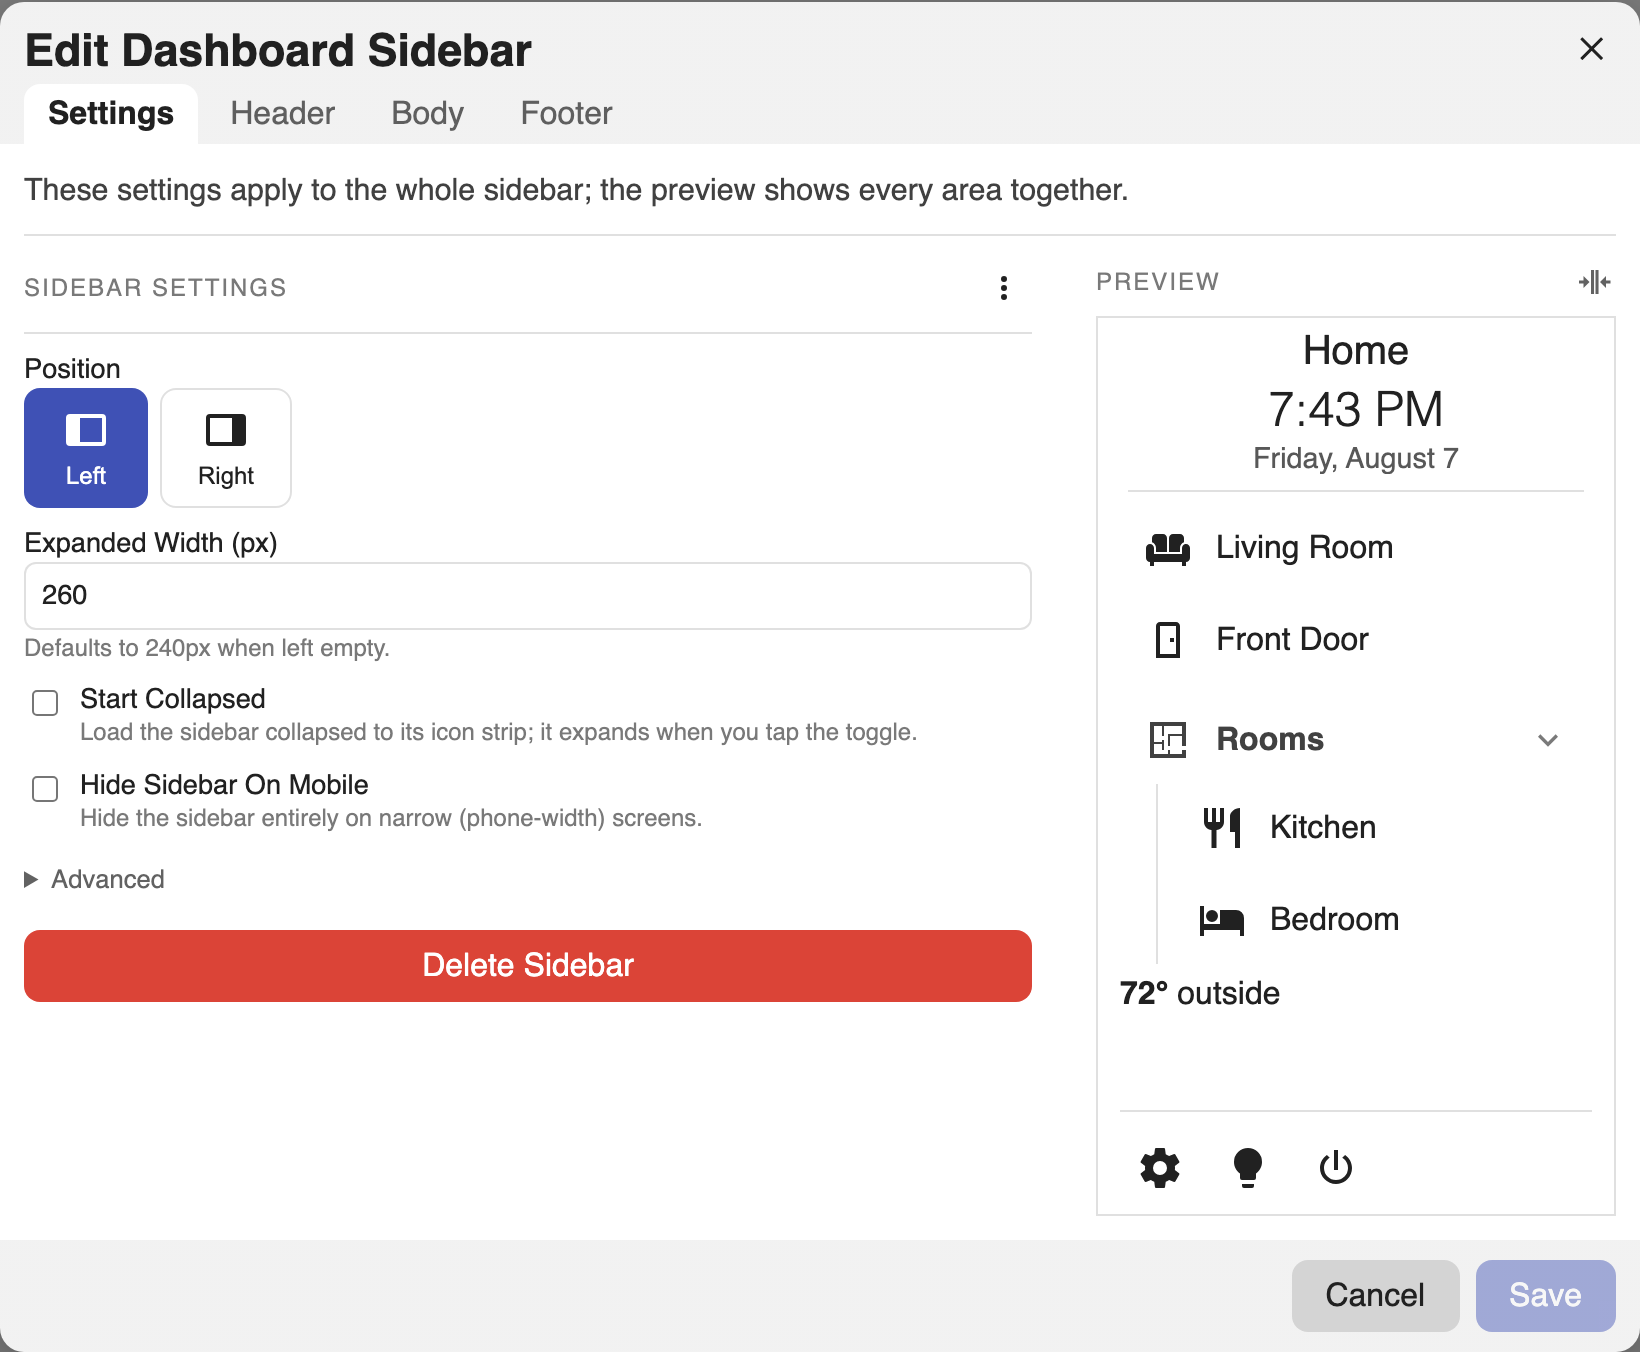
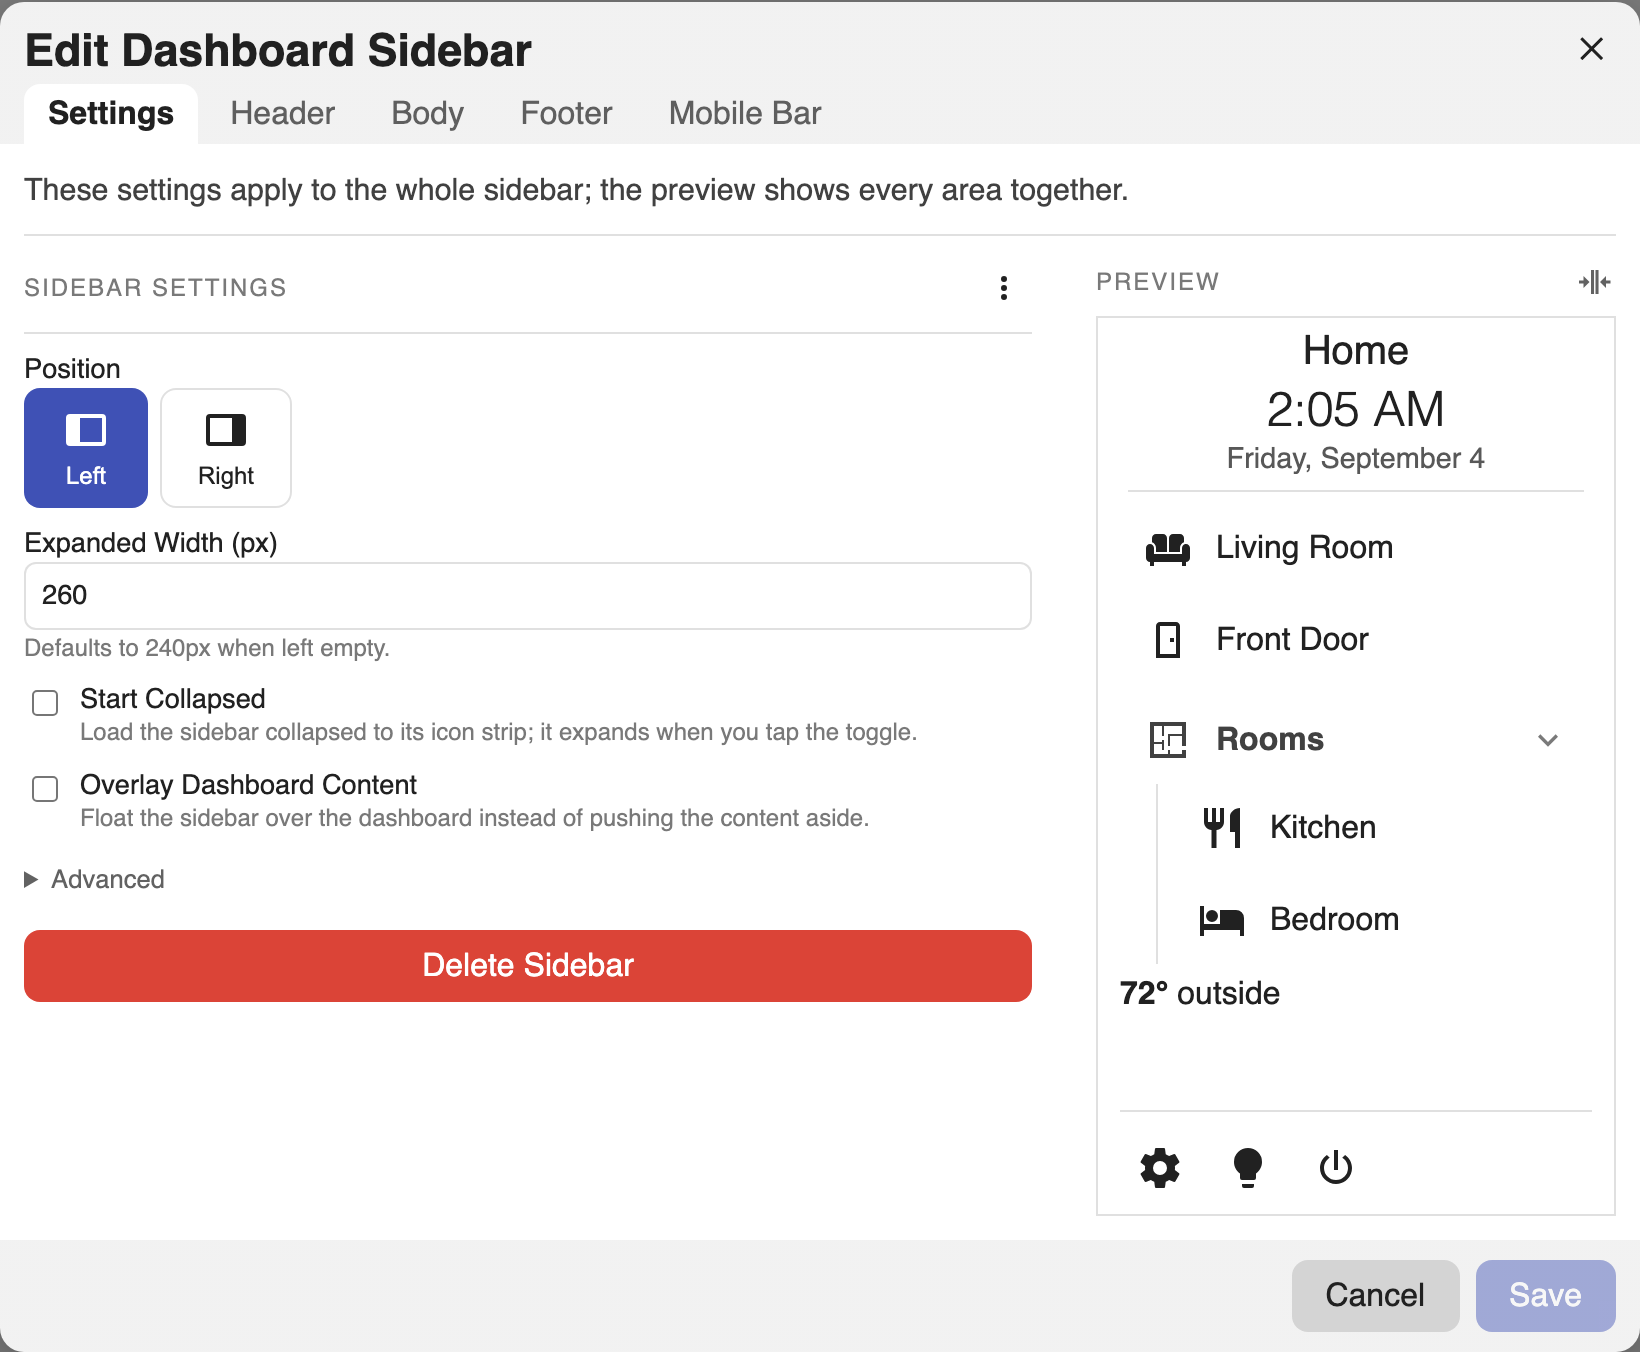
docs: document the mobile bar
The bar had no page of its own: everything a reader needed was a field list
in the generated reference, which lists keys without explaining them. There
is a Mobile Bar page now, covering the two modes, what each one reads, the
custom YAML shape, and the footer's three forms, with the switch-to-custom
copy behaviour spelled out.

Two sentences also still promised a four-tab editor. There are five.

The screenshot script grew a mobile section on its demo config, so the
Mobile Bar tab is reachable, plus shots of both modes: the mirror form over
its live bar preview, and custom mode with the YAML reference open. All the
images are regenerated off the current editor; the old set was from before
the tab existed.

Settings also listed the breakpoint and the two viewport options as
top-level fields. They live under Advanced, next to the background.

Changed region(s): [[0.0311, 0.5592, 0.5287, 0.6213], [0.7463, 0.2796, 0.9018, 0.3728], [0.4043, 0.0621, 0.4976, 0.0932]]

diff --git a/docs/mobile.md b/docs/mobile.md
@@ -1,0 +1,156 @@
+# Mobile Bar
+
+On narrow screens the sidebar can be replaced by a bar pinned to the bottom (or
+top) of the screen. Elements that don't fit fold into a **⋯** sheet that slides
+up, along with the footer and any extra entries you curate.
+
+The bar only exists when `on_mobile` is `bar`. Adding a `mobile:` section turns
+it on by default; see [Sidebar Settings](configuration.md) for `on_mobile`,
+`on_desktop`, and the `breakpoint` that decides what counts as narrow.
+
+## Two modes
+
+The bar gets its content one of two ways, chosen by `mode`:
+
+| Mode | What the bar shows |
+| --- | --- |
+| `mirror` (default) | The desktop nav, in document order, and the desktop footer. |
+| `custom` | Only what you spell out under `mobile`. It inherits nothing. |
+
+=== "Visual editor"
+
+    Open the **Mobile Bar** tab. The **⋯** menu switches between
+    **Mirror Desktop** and **Custom Bar**. Switching to custom asks whether to
+    **Copy Desktop Bar** (clone what the mirror shows, footer included) or
+    **Start Empty**.
+
+    Mirror mode shows the bar's options as a form. Custom mode is edited as
+    YAML, with a collapsed **Mobile YAML reference** above the editor listing
+    every key and linking here.
+
+    ![The Mobile Bar tab in mirror mode: position and label options on the left, a live bar preview at phone width below.](assets/editor/mobile-mirror.png)
+
+=== "YAML"
+
+    ```yaml
+    mobile:
+      mode: mirror        # mirror | custom; default mirror
+      position: bottom    # top | bottom; default bottom
+      labels: false       # show element titles under the bar icons
+    ```
+
+`items`, `menu`, and `footer` belong to custom mode. Setting any of them
+without `mode: custom` is an error rather than a silent no-op, because a
+mirrored bar follows the desktop and carries nothing of its own.
+
+## Mirror mode
+
+The default. The bar shows the items, categories, dividers, clocks, and dates
+from the desktop `header` and `body`, in order, and the desktop `footer` rides
+behind the **⋯** sheet. Nothing else is configurable per element: change the
+desktop and the bar follows.
+
+Only the presentation options apply here.
+
+```yaml
+mobile:
+  position: bottom
+  labels: true
+  background: 'linear-gradient(180deg, #1b2735, #090a0f)'
+```
+
+## Custom mode
+
+The mobile section becomes the whole bar. Nothing is inherited, which is why
+**Copy Desktop Bar** exists: it seeds `items` and `footer` from what the mirror
+would have shown, so the switch is lossless.
+
+=== "Visual editor"
+
+    Custom mode is YAML-only. The preview beside it is live but read-only:
+    tapping the **⋯** slot still opens the sheet so you can see the folded
+    entries, but elements are not selected or dragged there.
+
+    ![The Mobile Bar tab in custom mode, the Mobile YAML reference expanded above the YAML editor.](assets/editor/mobile-custom.png)
+
+=== "YAML"
+
+    ```yaml
+    mobile:
+      mode: custom
+      labels: true
+      items:                      # the bar itself, in order
+        - type: clock
+        - type: item
+          title: Overview
+          icon: mdi:view-dashboard
+          tap_action:
+            action: navigate
+            navigation_path: /lovelace/0
+        - type: category           # categories open a flyout above their slot
+          title: Rooms
+          icon: mdi:sofa
+          items:
+            - title: Kitchen
+              icon: mdi:silverware-fork-knife
+              tap_action:
+                action: navigate
+                navigation_path: /lovelace/kitchen
+      menu:                        # extra entries inside the ⋯ sheet
+        - type: title
+          text: Elsewhere
+        - type: markdown
+          content: '**{{ states("sensor.power") }} W** right now'
+      footer:                      # the sheet's pinned footer
+        buttons:
+          - icon: mdi:lock
+            tap_action:
+              action: toggle
+              entity: lock.front_door
+    ```
+
+`items` accepts `item`, `category`, `divider`, `clock`, and `date`. Leave it
+out entirely for a bar that lives only behind the **⋯** sheet.
+
+`menu` accepts any block kind, including titles, markdown, and cards, and
+renders inside the sheet between the folded slots and the footer.
+
+## The sheet footer
+
+`mobile.footer` takes the **same shape as the desktop [footer](footer.md)**: a
+button strip, a card, or markdown, with the same `divider` and markdown
+options.
+
+```yaml
+mobile:
+  mode: custom
+  footer:
+    divider: true
+    buttons:
+      - icon: mdi:cog
+        tap_action:
+          action: navigate
+          navigation_path: /config/dashboard
+    # or card: { type: entities, entities: [light.kitchen] }
+    # or markdown: '**Good evening**'
+```
+
+In mirror mode the desktop footer is used and `mobile.footer` is rejected. In
+custom mode the bar has no footer at all unless you set this, since a custom
+bar inherits nothing.
+
+## Options
+
+```yaml
+mobile:
+  position: bottom     # top | bottom; which edge the bar docks to
+  labels: false        # show element titles under the bar icons
+  background: ''       # any CSS background; defaults to the sidebar's
+  card_mod: {}         # card-mod config for the bar itself
+```
+
+These apply in both modes. Every part of the bar carries a
+`dashboard-sidebar-bar-*` class for [card-mod](styling.md#card-mod) targeting,
+and elements keep their own `class` and `id` hooks.
+
+The full field list is in the [config reference](reference.md#mobileconfig).

diff --git a/docs/configuration.md b/docs/configuration.md
@@ -23,15 +23,16 @@ the [Config Reference](reference.md) (generated from the source, always current)
     - **Start Collapsed**: load collapsed to the icon strip.
     - **Overlay Dashboard Content**: float the sidebar over the dashboard
       instead of pushing the content aside.
-    - **On Desktop**: whether the sidebar shows on wide screens, or nothing does.
-    - **On Mobile**: whether narrow screens get the sidebar, the mobile bar, or
-      nothing.
-    - **Breakpoint**: the viewport width, in pixels, at and below which "mobile"
-      applies. Defaults to 768.
 
-    **Background** (any CSS background, including gradients) lives under
-    **Settings → Advanced**, alongside the whole-sidebar
-    [Card Mod](styling.md#card-mod).
+    Under **Settings → Advanced**:
+
+    - **Mobile Breakpoint (px)**: the viewport width at and below which the
+      mobile choices apply. Defaults to 768.
+    - **On Desktop**: whether the sidebar shows on wide screens, or nothing does.
+    - **On Mobile**: whether narrow screens get the sidebar, the
+      [mobile bar](mobile.md), or nothing.
+    - **Background**: any CSS background, including gradients.
+    - The whole-sidebar [Card Mod](styling.md#card-mod).
 
     ![The Settings tab, with sidebar-wide fields on the left and a live preview of the whole sidebar on the right.](assets/editor/settings.png)
 

diff --git a/docs/install.md b/docs/install.md
@@ -109,11 +109,13 @@ The starter is built from your instance so you have something real to edit:
 ## Editing
 
 Click the **pencil** on the sidebar (in dashboard edit mode) to open the editor
-modal. It has four tabs (**Settings**, **Header**, **Body**, **Footer**), each
-named for the config key it edits, and each with a **live preview** on the right
-that mirrors the real sidebar. Select any element in the preview to edit it, drag
-to reorder, and use each tab's **⋯** menu to switch between the UI form and raw
-**YAML** editing.
+modal. It has five tabs (**Settings**, **Header**, **Body**, **Footer**, and
+**Mobile Bar**), each named for the config key it edits, and each with a **live
+preview** on the right that mirrors the real sidebar. Select any element in the
+preview to edit it, drag to reorder, and use each tab's **⋯** menu to switch
+between the UI form and raw **YAML** editing. The
+[Mobile Bar](mobile.md) tab is the exception: its custom mode is edited as YAML
+against a read-only preview.
 
 Everything is saved back into the dashboard's Lovelace config; nothing is stored
 outside it.

diff --git a/docs/index.md b/docs/index.md
@@ -229,10 +229,10 @@ The sidebar in the clip is styled with [card-mod](styling.md#card-mod) (gradient
   including gradients, and
   [card-mod](https://github.com/thomasloven/lovelace-card-mod) at both the whole
   sidebar and per-element level.
-- 🖱 **Built by clicking, not typing**: a four-tab editor (Settings, Header, Body,
-  Footer, each named for the config key it edits) with a live preview that
-  mirrors the real sidebar, drag-to-reorder, and a YAML escape hatch on every tab
-  and element.
+- 🖱 **Built by clicking, not typing**: a five-tab editor (Settings, Header, Body,
+  Footer, Mobile Bar, each named for the config key it edits) with a live preview
+  that mirrors the real sidebar, drag-to-reorder, and a YAML escape hatch on every
+  tab and element.
 
 ## Requirements
 
